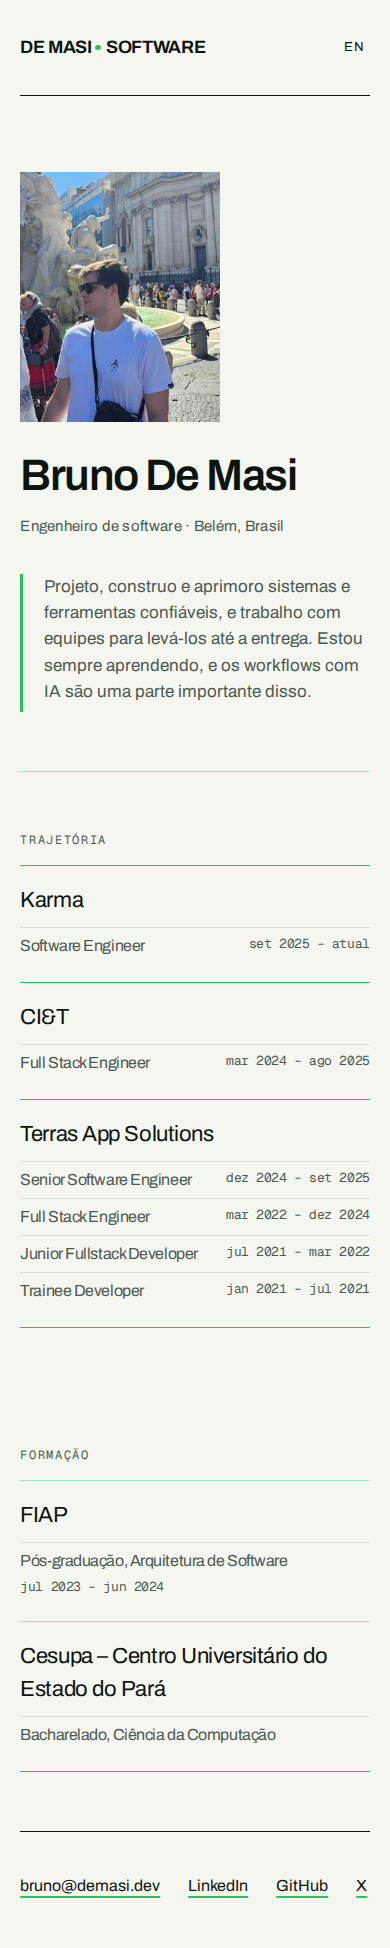
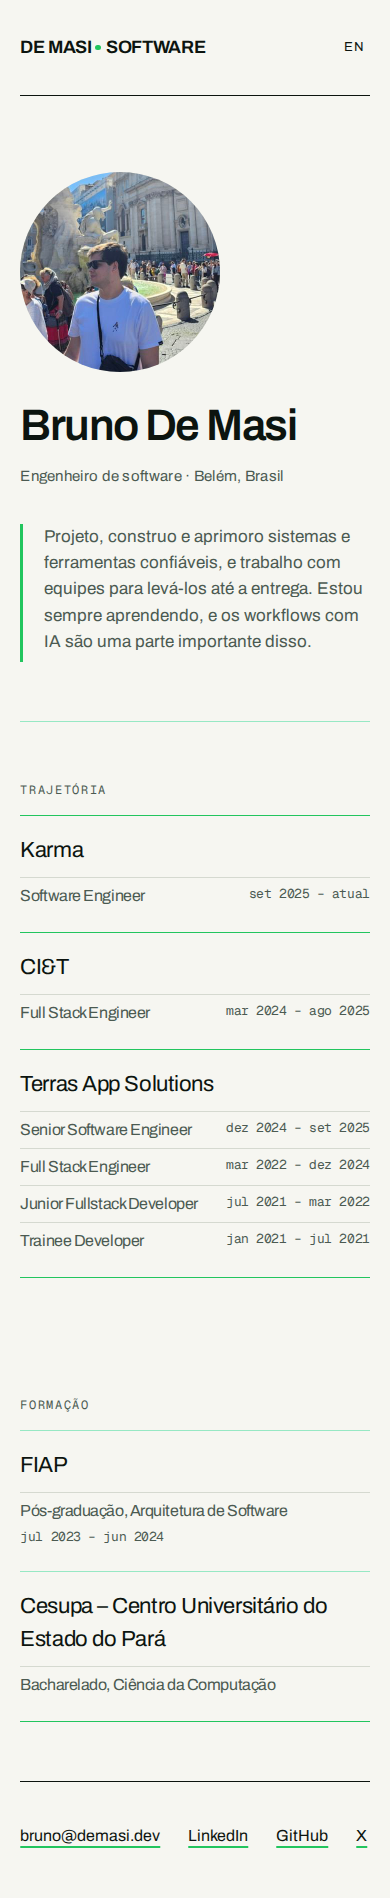
Round the founder photo

diff --git a/src/components/company/home.css b/src/components/company/home.css
@@ -178,7 +178,8 @@ body:has(.company-home) {
 .founder-photo {
   margin: 0;
   width: min(220px, 100%);
-  aspect-ratio: 4 / 5;
+  aspect-ratio: 1 / 1;
+  border-radius: 50%;
   overflow: hidden;
   background: #e4e7df;
 }
@@ -188,7 +189,7 @@ body:has(.company-home) {
   width: 100%;
   height: 100%;
   object-fit: cover;
-  object-position: 50% 30%;
+  object-position: 45% 30%;
 }
 
 .founder-name { font-size: clamp(44px, 5.6vw, 92px); }
